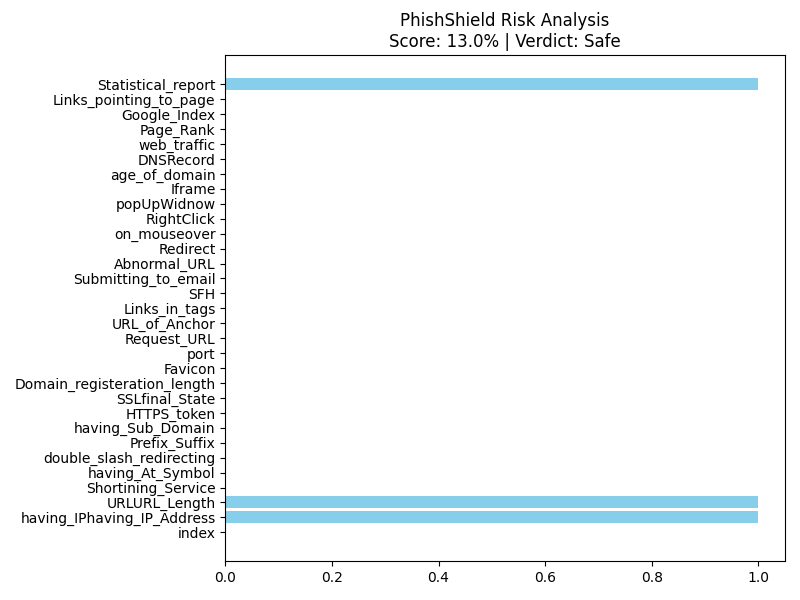
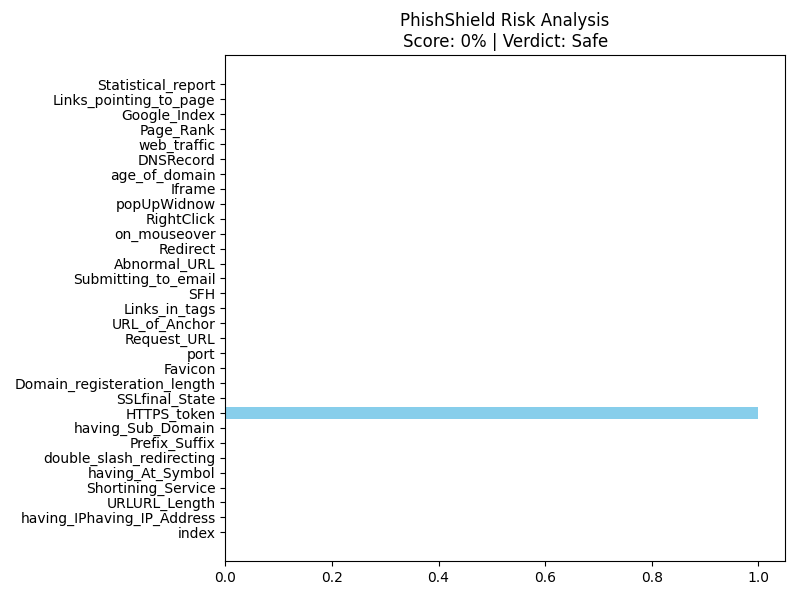
updated ml models and features.py

diff --git a/features.py b/features.py
@@ -9,7 +9,7 @@ import pandas as pd
 
 # Load ML Models
 
-url_model = joblib.load("models/url_model.pkl")        # RandomForest model
+"""url_model = joblib.load("models/url_model.pkl")        # RandomForest model"""
 email_model = joblib.load("models/email_model.pkl")    # Logistic Regression model
 email_tfidf = joblib.load("models/email_tfidf.pkl")    # TF-IDF vectorizer
 
